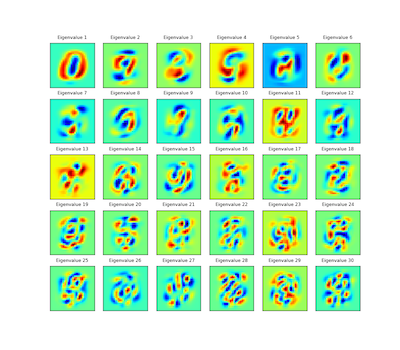
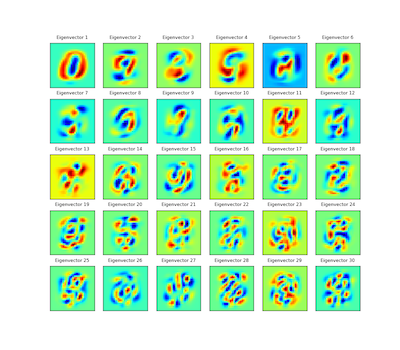
spelling mistake in pca image

diff --git a/pca.py b/pca.py
@@ -47,7 +47,7 @@ if __name__ == "__main__":
         plt.subplot(n_row, n_col, i+1)
         plt.imshow(evecs[i].reshape(28,28), cmap='jet')
 
-        title_text = 'Eigenvalue ' + str(i + 1)
+        title_text = 'Eigenvector ' + str(i + 1)
         plt.title(title_text, size=6.5)
         plt.xticks(())
         plt.yticks(())
